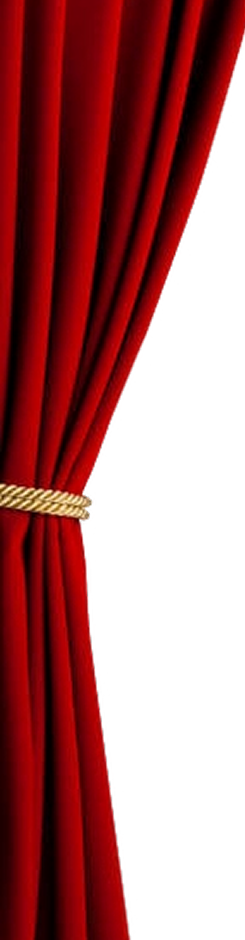
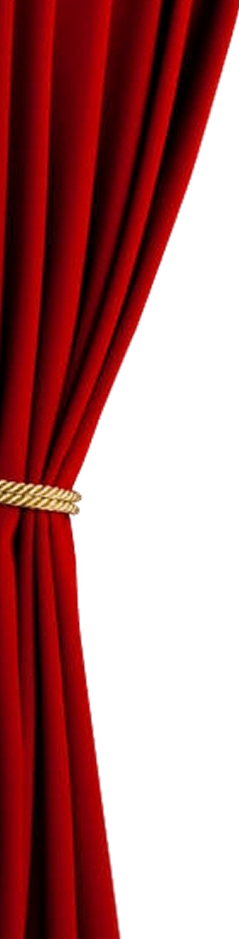
combat
found how to incorporate combat

diff --git a/scripts/story.js b/scripts/story.js
@@ -370,7 +370,7 @@ export const story = {
             `You ask what you should do.`,
             `"That depends on what you want." He picks the hammer back up. "But I'll tell you this—if you're going to do anything at all, you should know how to fight."`,
             `"You're welcome at my yard any morning."`,
-            `Sir Edran is now available as a mentor. Proceeding to train with him leads to the Wrath Route.`
+            //Sir Edran is now available as a mentor. Proceeding to train with him leads to the Wrath Route.
         ],
 
         choices: [
@@ -392,7 +392,7 @@ export const story = {
             `"You've been having the visions your whole life. Have they ever shown you a winner?"`,
             `You think about it. They haven't. Only the fighting. Only the fear.`,
             `"Aelara shows you what was," she says gently. "Not what must be again."`,
-            `Sister Maevis is now available as a mentor. Proceeding with her leads to the Holy Route.`
+            //`Sister Maevis is now available as a mentor. Proceeding with her leads to the Holy Route.`
         ],
 
         choices: [
@@ -415,7 +415,7 @@ export const story = {
             `"I know what the prophecy says. I know what you have on your chest. And I know that the King will use you as a weapon and discard you when the war is won." He pauses.`,
             `"There are people in Vorthane who believe the prophecy too. And they interpret it very differently."`,
             `He presses a small token into your hand—a plain copper disc with a mark you don't recognize—and walks away.`,
-            `Davan Cole is now available as a mentor. Following him leads to the Traitor Route.`
+            //`Davan Cole is now available as a mentor. Following him leads to the Traitor Route.`
         ],
 
         choices: [
@@ -462,8 +462,9 @@ export const story = {
             `He comes at you without further warning.`
         ],
         choices: [
-            { text: "Begin training", nextStep: "w_firstSpar", impact: [0, 0, 0, 0, 0, 0], combat: false, enemy: [], gainItem: false, gainWeapon: false, gainArmor: false, item: [], weapon: [], armor: [] }
-        ]
+            { text: "Begin training", nextStep: "mockBattle", impact: [0, 0, 0, 0, 0, 0], combat: true, enemyName: 'Edran', enemyStats: [25, 2, 4, 2, 50], enemyAppearance: `/backgrounds-png/training.png`, gainItem: false, gainWeapon: false, gainArmor: false, item: [], weapon: [], armor: [] }
+        ],
+        nextStep: `w_firstSpar`
     },
 
     w_firstSpar: {
@@ -1885,9 +1886,8 @@ export const story = {
             {text: `Attack`},
             {text: `Defend`},
             {text: `Inventory`},
-            {text: `Run Away`, nextStep: `victory`}
+            {text: `Run Away`}
         ],
-        nextStep: `victory`
     },
 
     mockLeadUp: {

diff --git a/styles.css b/styles.css
@@ -39,6 +39,7 @@ nav {
     flex-direction: column;
     align-items: center;
     background-image: url(images/rock-wall.png);
+    background-size: cover;
     min-height: 100vh;
     overflow-x: hidden;
     background-color: #5D685C;
@@ -132,7 +133,6 @@ nav {
 /*Hover and focus states with pen tip icon*/
 #gameText:hover,
 #gameText:focus {
-    color: #F9D357;
     transform: scale(1.1);
     outline: none;
     transition: 0.3s;
@@ -175,7 +175,7 @@ nav {
 
 #options button:hover,
 #options button:focus {
-    color: #F9D357;
+    color: #f0c023;
     transform: scale(1.1);
     padding-left: 30px;
     outline: none;